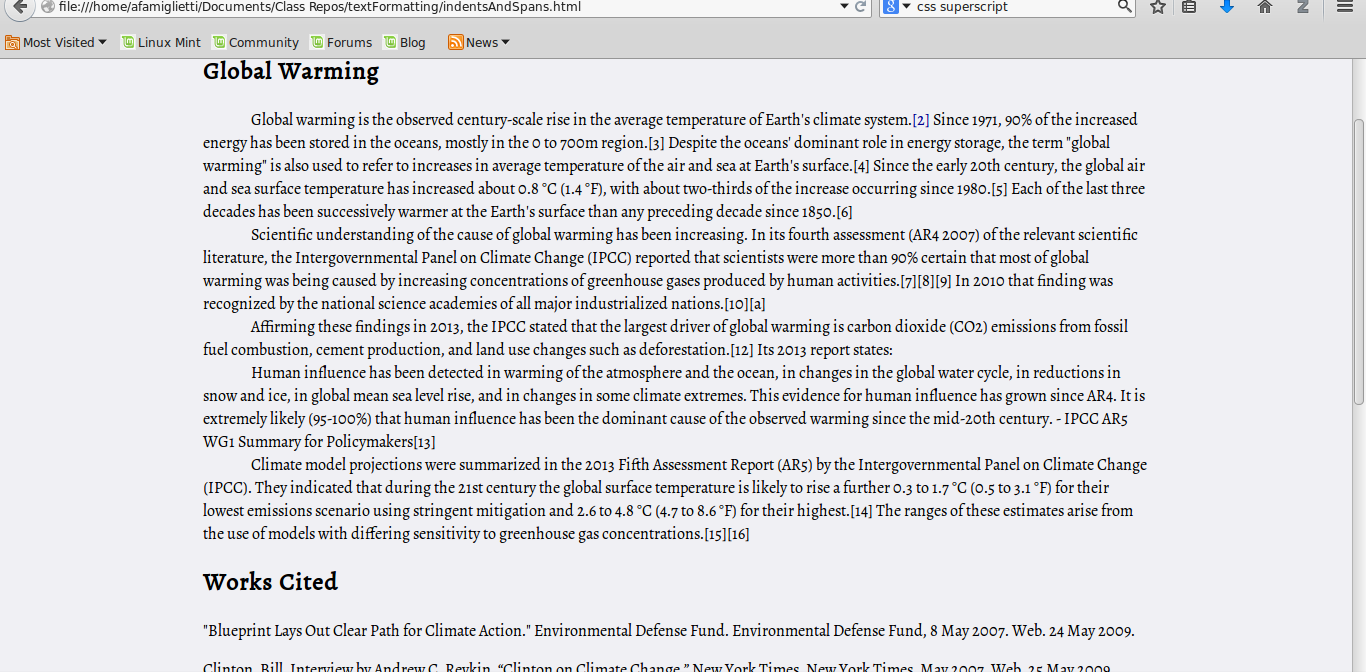
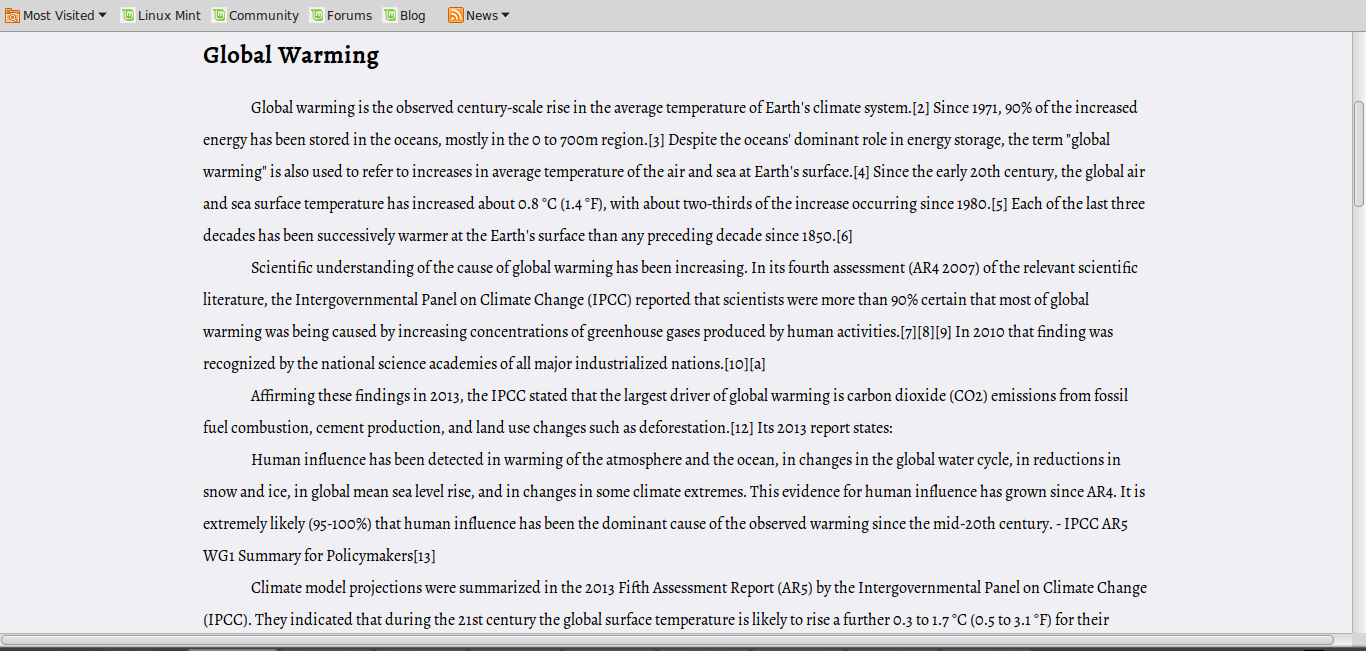
tweaks for line height

diff --git a/indentsAndSpans.html b/indentsAndSpans.html
@@ -7,7 +7,6 @@
 <link rel="stylesheet" href="style.css">
 <style>
 
-
 </style>
 </head>
 <body>
@@ -17,10 +16,10 @@ Add css rules to make the text below match the pictured academic essay format. T
 <ol>
 	<li>Set a vertical margin of 0 and an appropriate horizontal margin for the essay and worksCited sections (try to eyeball a good estimate and then adjust until you get it right</li>
 	<li>Strip the margins from paragraphs (p tags) inside of the essay section and use a text-indent rule to set an appropriate first line indent. You can set text indent in pixels, em, or percent. Which do you think would be best to use?</li>
+	<li>Set the line-height rule for p tags inside of the essay section to achieve the "double spaced" appearance shown. Remember that the em unit is the size of a capital letter in the current font. Given that a double spaced paragraph has enough room for another line of text (including capital letters) between each line, you should be able to figure out the right em value for line-height pretty easily!</li>
 	<li>Set a negative text-indent for paragraps in the worksCited section to achieve the hanging-indent. Then adjust the left margin for these paragraps to move them back into alignment with the other text (note: if you think about how the negative indent moved the text on the page, you should be able to easily compute the correct left margin to move things back).</li>
 	<li>Add a color rule for the class note to change the color of the first note, note [2]. Choose something sensible. Then apply span tags with the class note to the other notes in the text. Using span tags allows you to apply any aribtrary styling you want to inline text.</li>
 </ol>
-Once you have matched the pictured format, improve it by adding a line-spacing rule to the essay div to make the paragraph text look less bunched up. Try to replicate the "double-spaced" appearance of an academic paper.
 </div>
 <div id="exercise1" class="exercise">
 <section id="essay">
